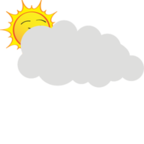
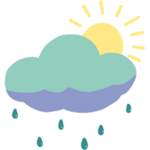
b

diff --git a/tset/preston-5.html b/tset/preston-5.html
@@ -70,26 +70,26 @@
                     <div class="box">
                         <h3>Wednesday</h3>
                         <p>40 &#176;F</p>
-                        <img src="img/cloudy.gif" alt="Partly Cloudy">
+                        <img src="img/cloudy.png" alt="Partly Cloudy">
                     </div>
 
                     <div class="box">
                         <h3>Thursday</h3>
                         <p>50 &#176;F</p>
-                        <img src="img/morerainy.gif" alt="Partly Cloudy">
+                        <img src="img/rainy.png" alt="Partly Cloudy">
                     </div>
 
 
                     <div class="box">
                         <h3>Friday</h3>
                         <p>55 &#176;F</p>
-                        <img src="img/rainy.gif" alt="Rain Today">
+                        <img src="img/rainy.png" alt="Rain Today">
                     </div>
 
                     <div class="box">
                         <h3>Saturday</h3>
                         <p>60 &#176;F</p>
-                        <img src="img/thunder.png" alt="Tornadoes Expected">
+                        <img src="img/morerainy.png" alt="Tornadoes Expected">
                     </div>
 
                     <div class="box">
